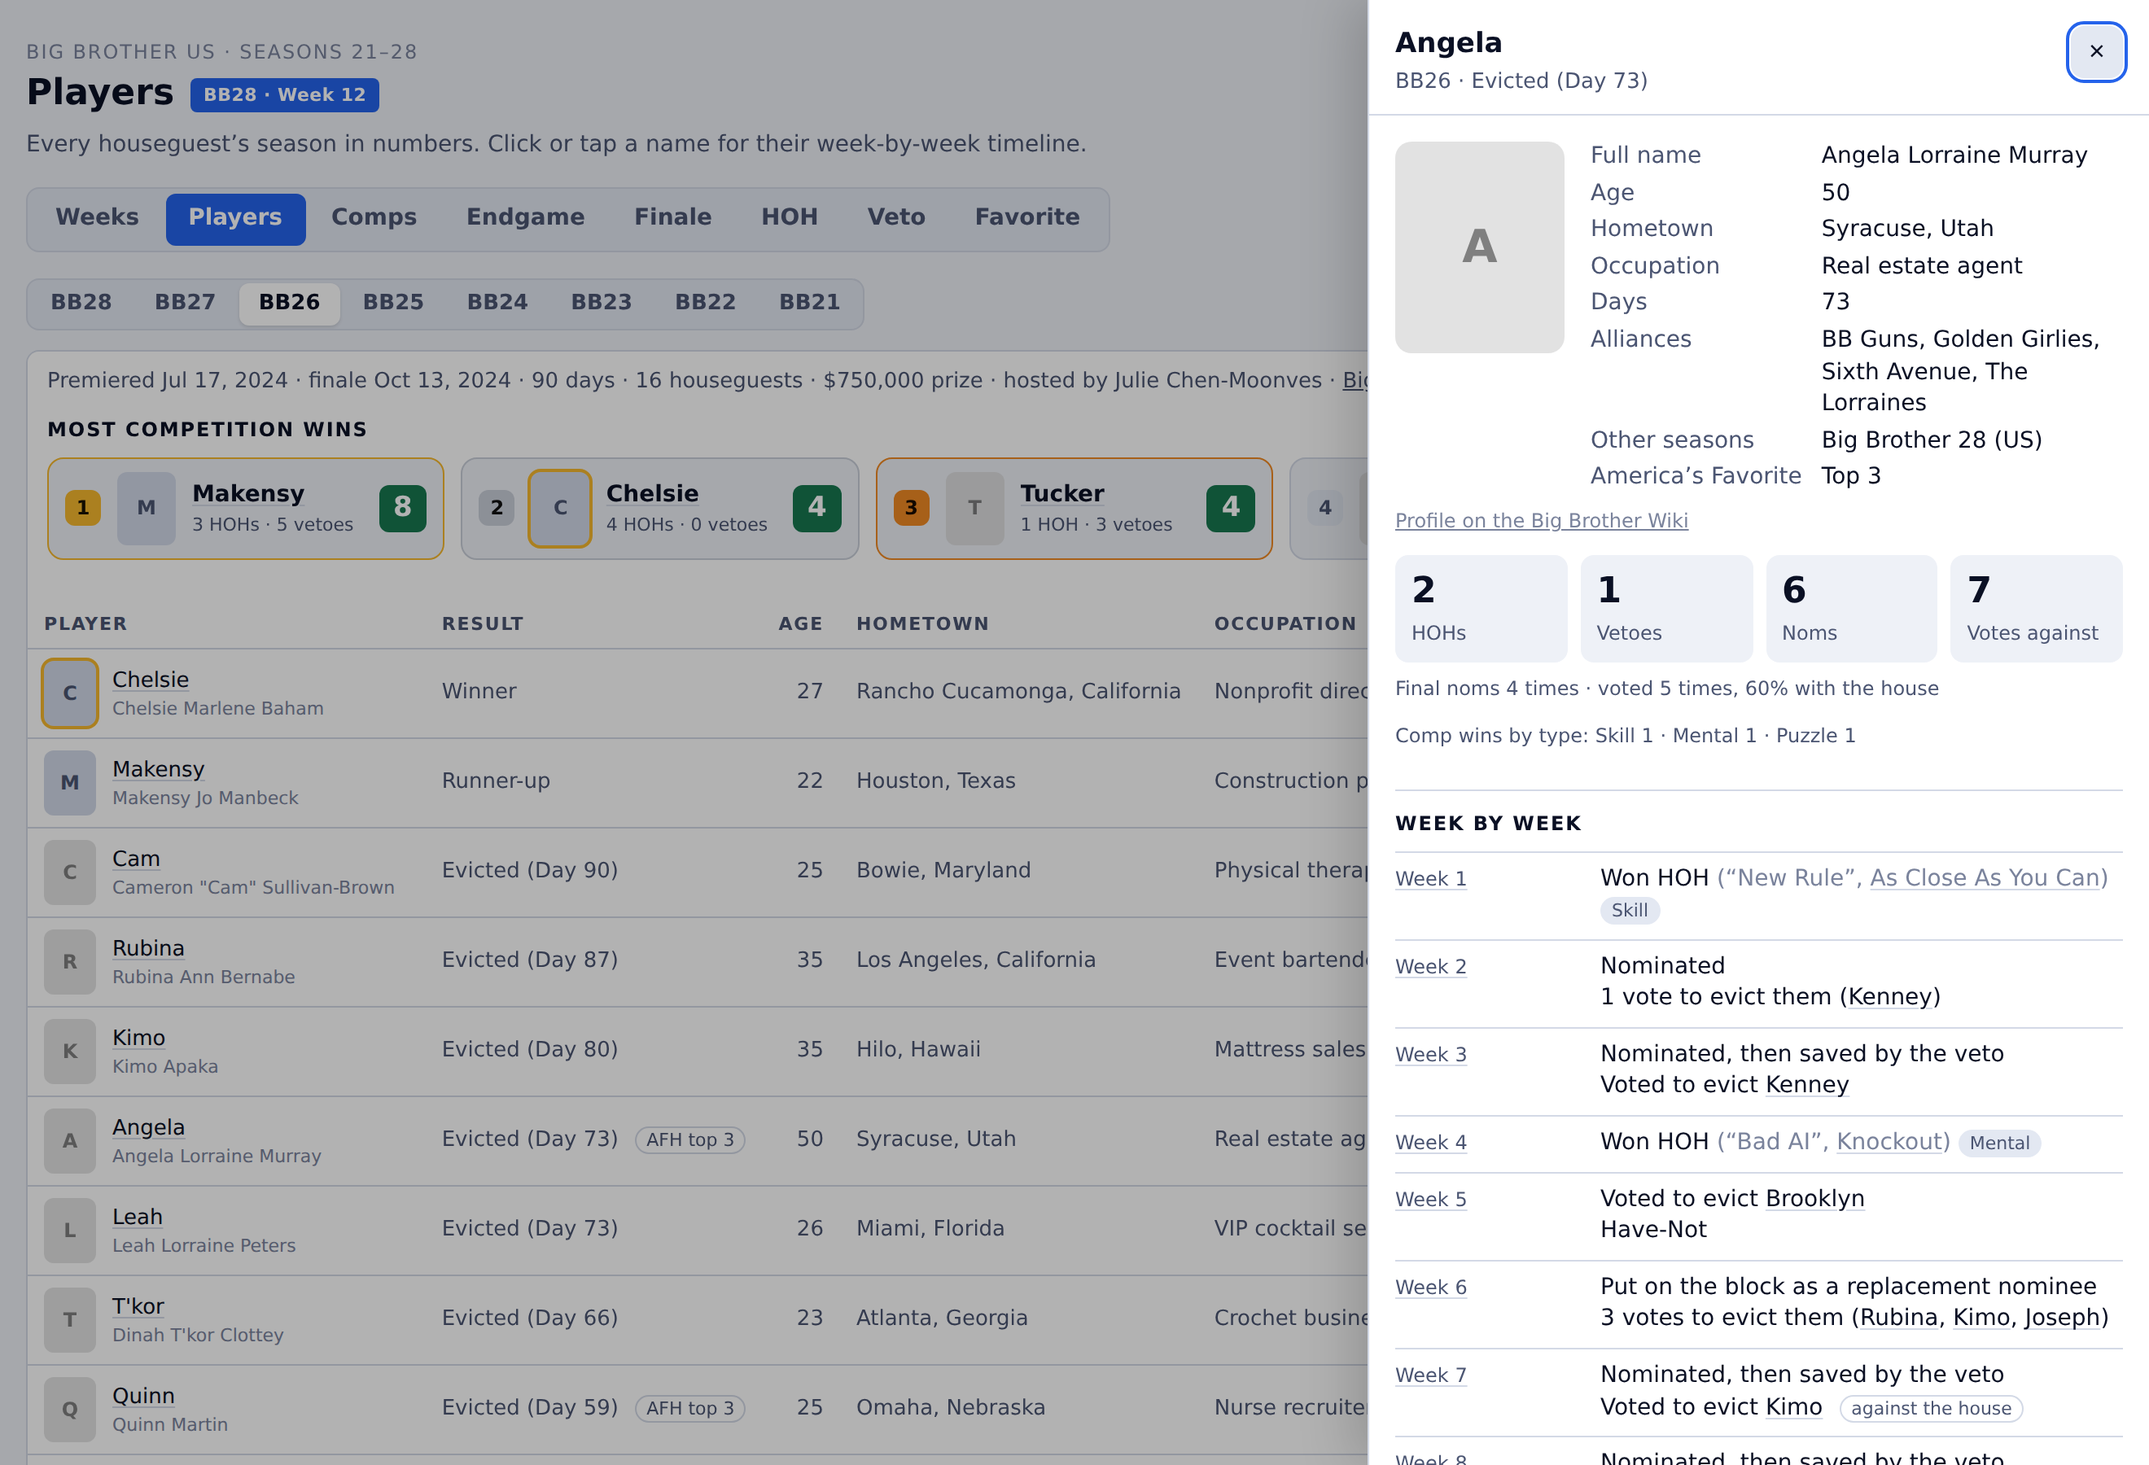
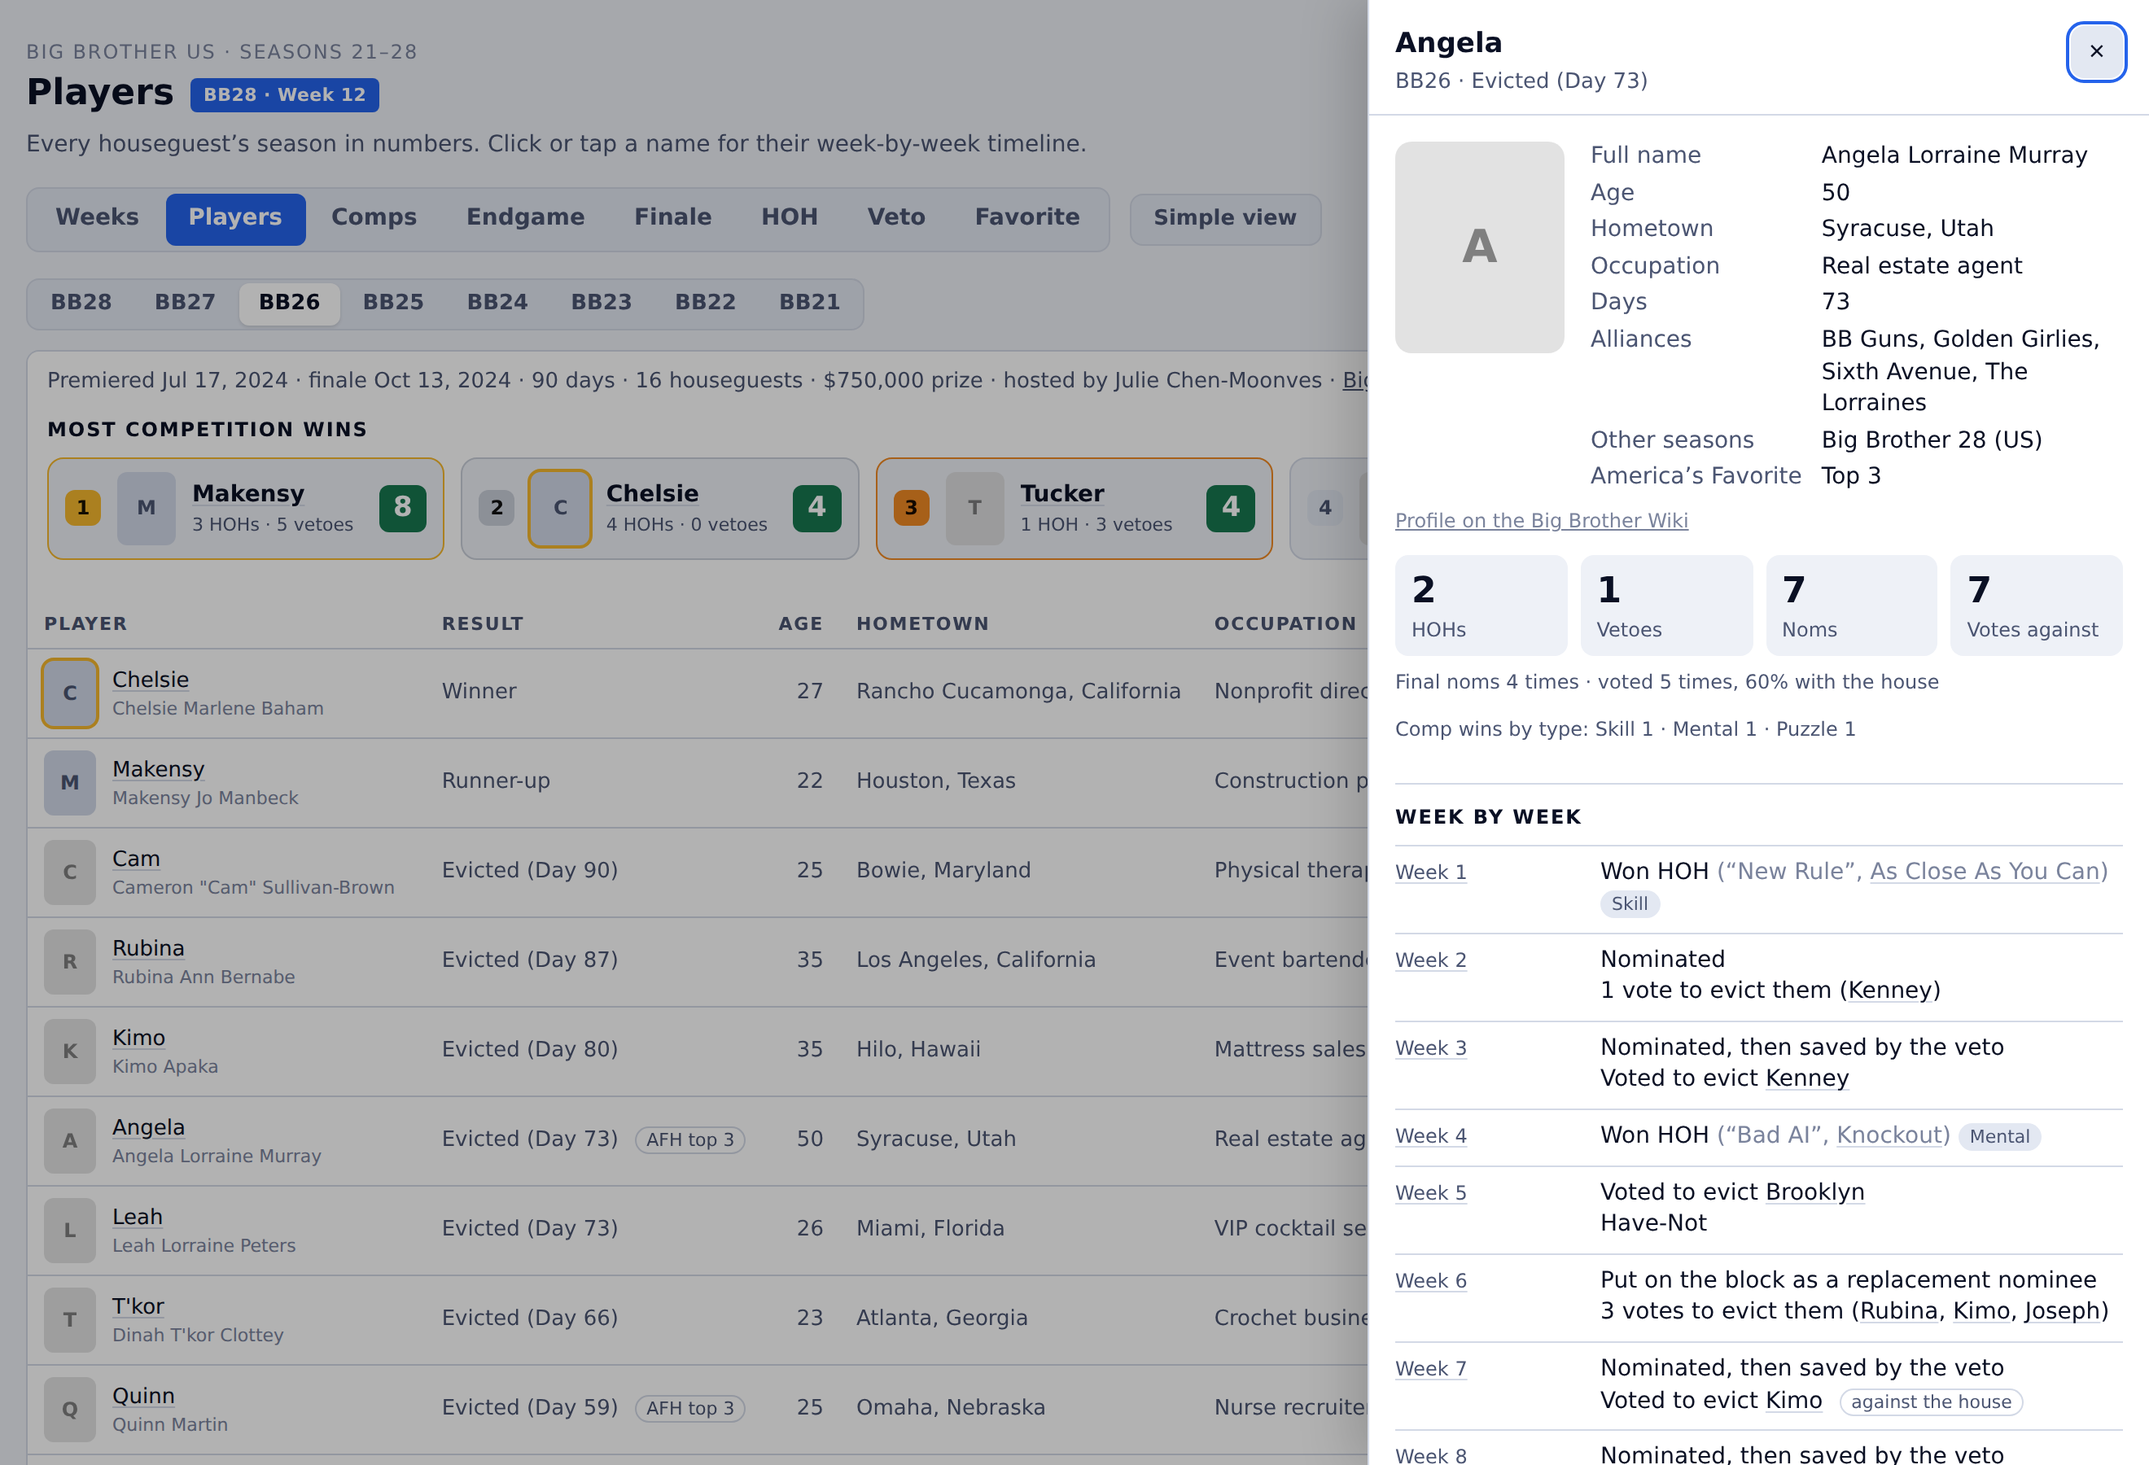
Add a simple view for showing the grid on a stream
?simple=1 (or the new Simple view button) steps every type token up,
enlarges the grid's cells and faces, drops the intro, legend, twist-week
corners and the tooltip's table text, scrolls the grid to the airing
week, and rereads weeks.json every 10 minutes so an overlay stays
current. With ?embed=1 it also hides the tabs and pickers and runs the
credits as one paragraph, for an OBS browser source. ?mode= and
?photos= set the grid mode and photos from the address.

Docs: an "On a stream" section in integration.md, a README note, the
style guide's simple-view tokens, and a stream-dark screenshot (all
screenshots retaken for the new toolbar button).

Claude-Session: https://claude.ai/code/session_0159H17RpPAb4Uypd8TJJXnA

diff --git a/web/index.html b/web/index.html
@@ -141,6 +141,19 @@
   --cat-hybrid: #d55181; --cat-puzzle: #008300; --cat-crapshoot: #9085e9; --cat-none: #36415f;
   --out-self: #3987e5; --out-other: #d95926; --out-kept: #36415f;
 }
+/* ?simple=1, the stream view: every size steps up so it reads on a shrunk-down stream. */
+:root.simple {
+  --fs-3xs: 12px;
+  --fs-2xs: 13px;
+  --fs-xs: 14px;
+  --fs-sm: 16px;
+  --fs-md: 17px;
+  --fs-lg: 18px;
+  --fs-xl: 20px;
+  --fs-2xl: 28px;
+  --fs-3xl: 32px;
+  --fs-4xl: 48px;
+}
 
 /* 2. Base ------------------------------------------------------------------ */
 * { box-sizing: border-box; }
@@ -347,6 +360,20 @@ footer a { white-space: nowrap; }
 /* ?embed=1: drop the page's own title and intro so a host page can supply its own. */
 .embed main { padding-top: var(--sp-2); }
 .embed .kicker, .embed h1, .embed .sub { display: none; }
+/* ?simple=1, the stream view: bigger cells and only what an audience needs. The intro,
+   the grid's legend, the twist-week corners and the tooltip's table text go; with
+   ?embed=1 the tabs and pickers go too, for a browser source that nobody clicks. */
+.simple .kicker, .simple .sub, .simple #weeks-view .legend, .simple .cell .flag,
+.simple #tip .raw, .embed.simple .toolbar, .embed.simple .controls { display: none; }
+/* The credits stay (the licenses need them) but run as one paragraph under an overlay. */
+.embed.simple footer p { display: inline; }
+.embed.simple footer p + p::before { content: " · "; }
+.simple .cell { min-width: 112px; min-height: 64px; }
+.simple .cell:not(.multi) .part { min-height: 64px; }
+.simple .cell:has(.faces) { min-width: 120px; }
+.simple .cell .part .face { width: 44px; }
+.simple .cell .part.wrap .who .face { width: 34px; }
+.simple .cell.multi .part .face, .simple .cell.multi .part.wrap .who .face { width: 26px; }
 
 /* Weeks: the grid */
 .swatch { width: 18px; height: 14px; border-radius: var(--r-xs); background: var(--cell); border: 1px solid var(--line); display: inline-grid; }
@@ -642,6 +669,7 @@ table.across tr.here td, table.across tr.here td:first-child { background: var(-
       <button role="tab" id="tab-veto" aria-selected="false" aria-controls="veto-view">Veto</button>
       <button role="tab" id="tab-afh" aria-selected="false" aria-controls="afh-view" title="America’s Favorite HouseGuest">Favorite</button>
     </div>
+    <span class="seg" role="group" aria-label="Layout"><button id="simple-btn" aria-pressed="false" title="Bigger and plainer, for showing on a stream">Simple view</button></span>
   </div>
   <section id="weeks-view" role="tabpanel" aria-labelledby="tab-weeks">
   <div class="controls">
@@ -704,6 +732,9 @@ const params = new URLSearchParams(location.search);
 if (params.has("embed")) document.documentElement.classList.add("embed");
 // ?theme=dark or ?theme=light pins the look, e.g. to match a host page.
 if (["dark", "light"].includes(params.get("theme"))) document.documentElement.dataset.theme = params.get("theme");
+// ?simple=1 is the stream view: bigger, with less on screen (the Simple view button toggles it).
+let simple = params.has("simple") && params.get("simple") !== "0";
+document.documentElement.classList.toggle("simple", simple);
 // ?seasons=26-28 (or 21,26 or 21-23,28) shows only those seasons, e.g. to keep an embed short.
 function seasonFilter(text) {
   if (!text) return null;
@@ -852,10 +883,14 @@ function cellLabel(w) {
 // What each grid cell shows: who was evicted (default) or whose HOH week it was.
 let gridMode = "evicted";
 try { if (localStorage.getItem("gridMode") === "hoh") gridMode = "hoh"; } catch (e) {}
+// ?mode=hoh or ?mode=evicted picks it in the address, e.g. for a stream overlay.
+if (["hoh", "evicted"].includes(params.get("mode"))) gridMode = params.get("mode");
 
 // Grid cells show a face above each name unless photos are switched off.
 let showFaces = true;
 try { if (localStorage.getItem("faces") === "off") showFaces = false; } catch (e) {}
+// ?photos=0 or ?photos=1 sets it in the address, for a stream overlay with no buttons.
+if (["0", "1"].includes(params.get("photos"))) showFaces = params.get("photos") === "1";
 
 function partHtml(r, season) {
   const text = gridMode === "hoh" ? r.hoh.join(" & ") : r.evicted;
@@ -872,7 +907,7 @@ function partHtml(r, season) {
 function render(data) {
   renderGrid(data);
   renderFooter(data);
-  wireTooltip(data.weeks);
+  wireTooltip();
 }
 
 function renderGrid(data) {
@@ -917,6 +952,16 @@ function renderGrid(data) {
   document.getElementById("legend-error").hidden = !weeks.some(w => w.status === "error");
   document.querySelectorAll("#grid-mode button").forEach(b => b.setAttribute("aria-pressed", b.dataset.mode === gridMode));
   $("faces-btn").setAttribute("aria-pressed", showFaces);
+  $("simple-btn").setAttribute("aria-pressed", simple);
+  if (simple) scrollToNow();
+}
+
+// Simple view: scroll the grid so the week that's airing is in sight at the right edge.
+function scrollToNow() {
+  const panel = $("panel"), th = panel.querySelector("thead th.now");
+  if (!th || panel.offsetParent === null) return;
+  const past = th.getBoundingClientRect().right - panel.getBoundingClientRect().right;
+  if (past > 0) panel.scrollLeft += past + 8;
 }
 
 function renderFooter(data) {
@@ -936,10 +981,11 @@ function renderFooter(data) {
     + `<p>Updated ${esc((data.generated_at || "").slice(0, 10))}${missing.length ? ` · Missing: ${missing.join(", ")}` : ""}</p>`;
 }
 
-function wireTooltip(weeks) {
+// Reads DATA.weeks at the time of the event, so it keeps working after a refresh.
+function wireTooltip() {
   const tip = document.getElementById("tip");
   const show = (btn, x, y) => {
-    tip.innerHTML = tipHtml(weeks[+btn.dataset.i]);
+    tip.innerHTML = tipHtml(DATA.weeks[+btn.dataset.i]);
     tip.style.display = "block";
     const r = btn.getBoundingClientRect();
     const tw = tip.offsetWidth, th = tip.offsetHeight;
@@ -973,7 +1019,7 @@ function wireTooltip(weeks) {
     const btn = e.target.closest(".cell");
     if (!btn) return;
     hide();
-    const w = weeks[+btn.dataset.i];
+    const w = DATA.weeks[+btn.dataset.i];
     location.hash = weekHash(w.season, w.week_label);
   });
 }
@@ -1339,6 +1385,7 @@ function setView(view) {
     $(`${v}-view`).hidden = view !== v;
     $(`tab-${v}`).setAttribute("aria-selected", view === v);
   }
+  if (view === "weeks" && simple) scrollToNow();
   // On a phone the tabs scroll sideways; keep the selected one in sight.
   const tabs = $(`tab-${view}`).parentElement, tab = $(`tab-${view}`);
   if (tabs.scrollWidth > tabs.clientWidth) {
@@ -2786,6 +2833,35 @@ $("faces-btn").addEventListener("click", () => {
   try { localStorage.setItem("faces", showFaces ? "on" : "off"); } catch (err) {}
   renderGrid(DATA);
 });
+// Simple view lives in the address (?simple=1), so a stream's browser source can link straight to it.
+$("simple-btn").addEventListener("click", () => {
+  simple = !simple;
+  document.documentElement.classList.toggle("simple", simple);
+  $("simple-btn").setAttribute("aria-pressed", simple);
+  if (simple) scrollToNow();
+  if (simple) params.set("simple", "1"); else params.delete("simple");
+  const query = params.toString();
+  history.replaceState(null, "", location.pathname + (query ? "?" + query : "") + location.hash);
+});
+// Simple view is left open for a whole show, so it picks up new data by itself: every
+// 10 minutes it rereads weeks.json and, if it was rebuilt, redraws the grid and the open tab.
+const REFRESH_MS = 10 * 60 * 1000;
+async function refreshData() {
+  let data;
+  try {
+    const r = await fetch("weeks.json", { cache: "no-cache" });
+    if (!r.ok) return;
+    data = await r.json();
+  } catch (err) { return; }
+  if (!DATA || data.generated_at === DATA.generated_at) return;
+  const fresh = onlySeasons(data, seasonFilter(params.get("seasons")));
+  if (!fresh.weeks.length) return;
+  DATA = fresh; DETAILS = null; detailsPromise = null;
+  renderGrid(DATA); renderFooter(DATA);
+  // An open drawer isn't redrawn under the reader; it picks up the new data when it next opens.
+  if ($("drawer").hidden) route();
+}
+setInterval(() => { if (simple && !document.hidden) refreshData(); }, REFRESH_MS);
 $("drawer-close").addEventListener("click", closeDrawer);
 $("scrim").addEventListener("click", closeDrawer);
 document.addEventListener("keydown", e => {

diff --git a/tools/screenshots.py b/tools/screenshots.py
@@ -25,6 +25,7 @@ PHOTO_HOST = "**/static.wikia.nocookie.net/**"
 DESKTOP = {"width": 1320, "height": 900}
 GRID = {"width": 1320, "height": 740}
 PHONE = {"width": 390, "height": 800}
+STREAM = {"width": 1280, "height": 420}
 
 # name: (viewport, URL after the host, grid cell to hover as (season, week label) or None)
 SHOTS = {
@@ -40,6 +41,7 @@ SHOTS = {
     "endgame": (DESKTOP, "#endgame=26", None),
     "mobile-details": (PHONE, "#week=26/Week%2010", None),
     "afh": (DESKTOP, "#afh", None),
+    "stream-dark": (STREAM, "?simple=1&embed=1&theme=dark&seasons=26-28", None),
 }
 
 # True once every face picture on screen has given way to initials.

diff --git a/docs/integration.md b/docs/integration.md
@@ -60,7 +60,8 @@ Add `?embed=1` to hide the page's own title and intro, so it sits inside your la
   Comps season pickers.
 - **Theme.** The page follows the viewer's light/dark setting. The dark theme is a navy
   board styled to sit next to Taran's stock-watch graphics. Add `&theme=dark` (or
-  `&theme=light`) to pin one, e.g. `?embed=1&theme=dark` for a stream overlay.
+  `&theme=light`) to pin one, e.g. `?embed=1&theme=dark`. For a stream overlay, see
+  [On a stream](#on-a-stream).
 - **Deep links.** Every view has its own link, so an iframe can open straight into
   one: `?embed=1#week=26/Week%2010` (a week's details), `?embed=1#players=28` (a
   season's players), `?embed=1#player=26/Angela` (one player), `?embed=1#endgame=26` (the final
@@ -68,6 +69,43 @@ Add `?embed=1` to hide the page's own title and intro, so it sits inside your la
   or `?embed=1#afh` (every season's America's Favorite HouseGuest).
 - **Attribution.** The Wikipedia credit line stays visible in embed mode. It's needed
   for the CC BY-SA license, so don't hide it.
+
+### On a stream
+
+Add `?simple=1` for the simple view, or click **Simple view** next to the tabs (the
+button adds `?simple=1` to the address, so you can bookmark it). It's made for showing
+the page on a stream:
+
+- **Bigger.** Every text size steps up, and the grid's cells and faces are larger, so the
+  names still read once the stream is scaled down.
+- **Less on screen.** The intro, the grid's legend, the folded twist-week corners and
+  the table text in the hover card are left out. Tabs, the drawer and deep links
+  still work.
+- **The current week in sight.** The grid scrolls to the week that's airing, so it sits
+  at the right edge instead of off screen.
+- **Updates itself.** While it's open, the page rereads `weeks.json` every 10 minutes
+  and redraws when the data has been rebuilt. You don't need to refresh the source
+  during a show.
+
+**As an OBS (or Streamlabs) browser source**, add `&embed=1` as well. That also hides
+the tabs and pickers, since nobody clicks a browser source, and puts the credits in one
+short paragraph. For example, the airing season's evictions in the dark theme:
+
+```
+https://<user>.github.io/BigBrotherDataFromWiki/?simple=1&embed=1&theme=dark&seasons=28
+```
+
+![Simple view as a stream overlay: BB26–BB28, dark theme, scrolled to the current week](screenshots/stream-dark.png)
+
+- **Size.** Set the source to your canvas width (e.g. 1280 or 1920). The height is about
+  95px per season plus 170px for the header and credits: 270px for one season, 460px for
+  three. Crop the source rather than hiding the credits: the licenses require them.
+- **HOH instead of evictions.** `&mode=hoh` shows whose HOH week it was (`&mode=evicted`
+  is the default). Without it, the page uses whatever was last picked in that browser.
+- **Photos.** Houseguest photos load from the Big Brother Wiki. `&photos=0` shows
+  names only, which also makes each row a little shorter.
+- **One view.** Any deep link works in the simple view too, e.g.
+  `?simple=1&embed=1&theme=dark#finale=28` for the jury vote on finale night.
 
 ## 3. Use the data directly
 

diff --git a/docs/style-guide.md b/docs/style-guide.md
@@ -61,6 +61,11 @@ One family (`--font`, the system UI font). Ten sizes:
 | `--fs-3xl` | 28 | initials on portrait faces, the phone jury score |
 | `--fs-4xl` | 40 | the jury score |
 
+**Simple view** (`?simple=1`, the stream view) redefines every `--fs-*` token larger
+in the `:root.simple` block, from 12px up to 48px. A new size token gets a value there
+too. Its layout rules (bigger cells and faces, what it hides) sit with the embed rules
+in the Views part.
+
 Weights: `--fw-regular` (400), `--fw-semibold` (600, controls and grid cells),
 `--fw-bold` (700, names and caps labels), `--fw-heavy` (800, big numbers and badges).
 
@@ -111,6 +116,7 @@ the same look, add its selector to that list.
 |---|---|---|
 | Page header | `.kicker`, `h1` + `.pill`, `.sub` | Title and intro change with the tab (`VIEWS` in the script). |
 | View tabs | `.tabs` > `button[role=tab]` | Eight tabs make two rows of four on phones. A ninth adds a third row, so rethink the labels first. |
+| Simple view toggle | `#simple-btn` in a `.seg`, after `.tabs` | Adds or removes `?simple=1` in the address. `?embed=1&simple=1` hides the whole toolbar and the `.controls`. |
 | Picker / toggle | `.seg` > `button[aria-pressed]` (or a `select`) | Every secondary control, season pickers included. Wraps on phones. |
 | Panel | `.panel` | The box each tab renders into. Tables go straight inside. |
 | Panel body | `.view-body` | Pads a panel of prose, charts and sections (Finale, Endgame, HOH, Veto). |
@@ -170,7 +176,7 @@ add it to the table above, and (for colors) give it a dark value in both dark bl
 not the places that use it.
 
 **Before pushing** run `pytest -q` and look at the change at desktop and 390px, in light
-and dark (`?theme=dark`). If it shows in the README's screenshots, run
+and dark (`?theme=dark`), and in the simple view (`?simple=1`) if it's on the Weeks tab. If it shows in the README's screenshots, run
 `python tools/screenshots.py` to retake them.
 
 ## What the test checks

diff --git a/README.md b/README.md
@@ -29,6 +29,11 @@ Opening `web/index.html` directly (`file://`) won't work: the page has to load
 `weeks.json` over HTTP. More hosting options, phone setup and embedding are in
 [`docs/integration.md`](docs/integration.md#1-host-the-page).
 
+**On a stream:** click **Simple view** (or add `?simple=1`) for bigger type, less on
+screen, the airing week scrolled into sight and data that refreshes by itself. For an OBS
+browser source, use `?simple=1&embed=1&theme=dark&seasons=28`; see
+[On a stream](docs/integration.md#on-a-stream).
+
 ## How it works
 
 ```
